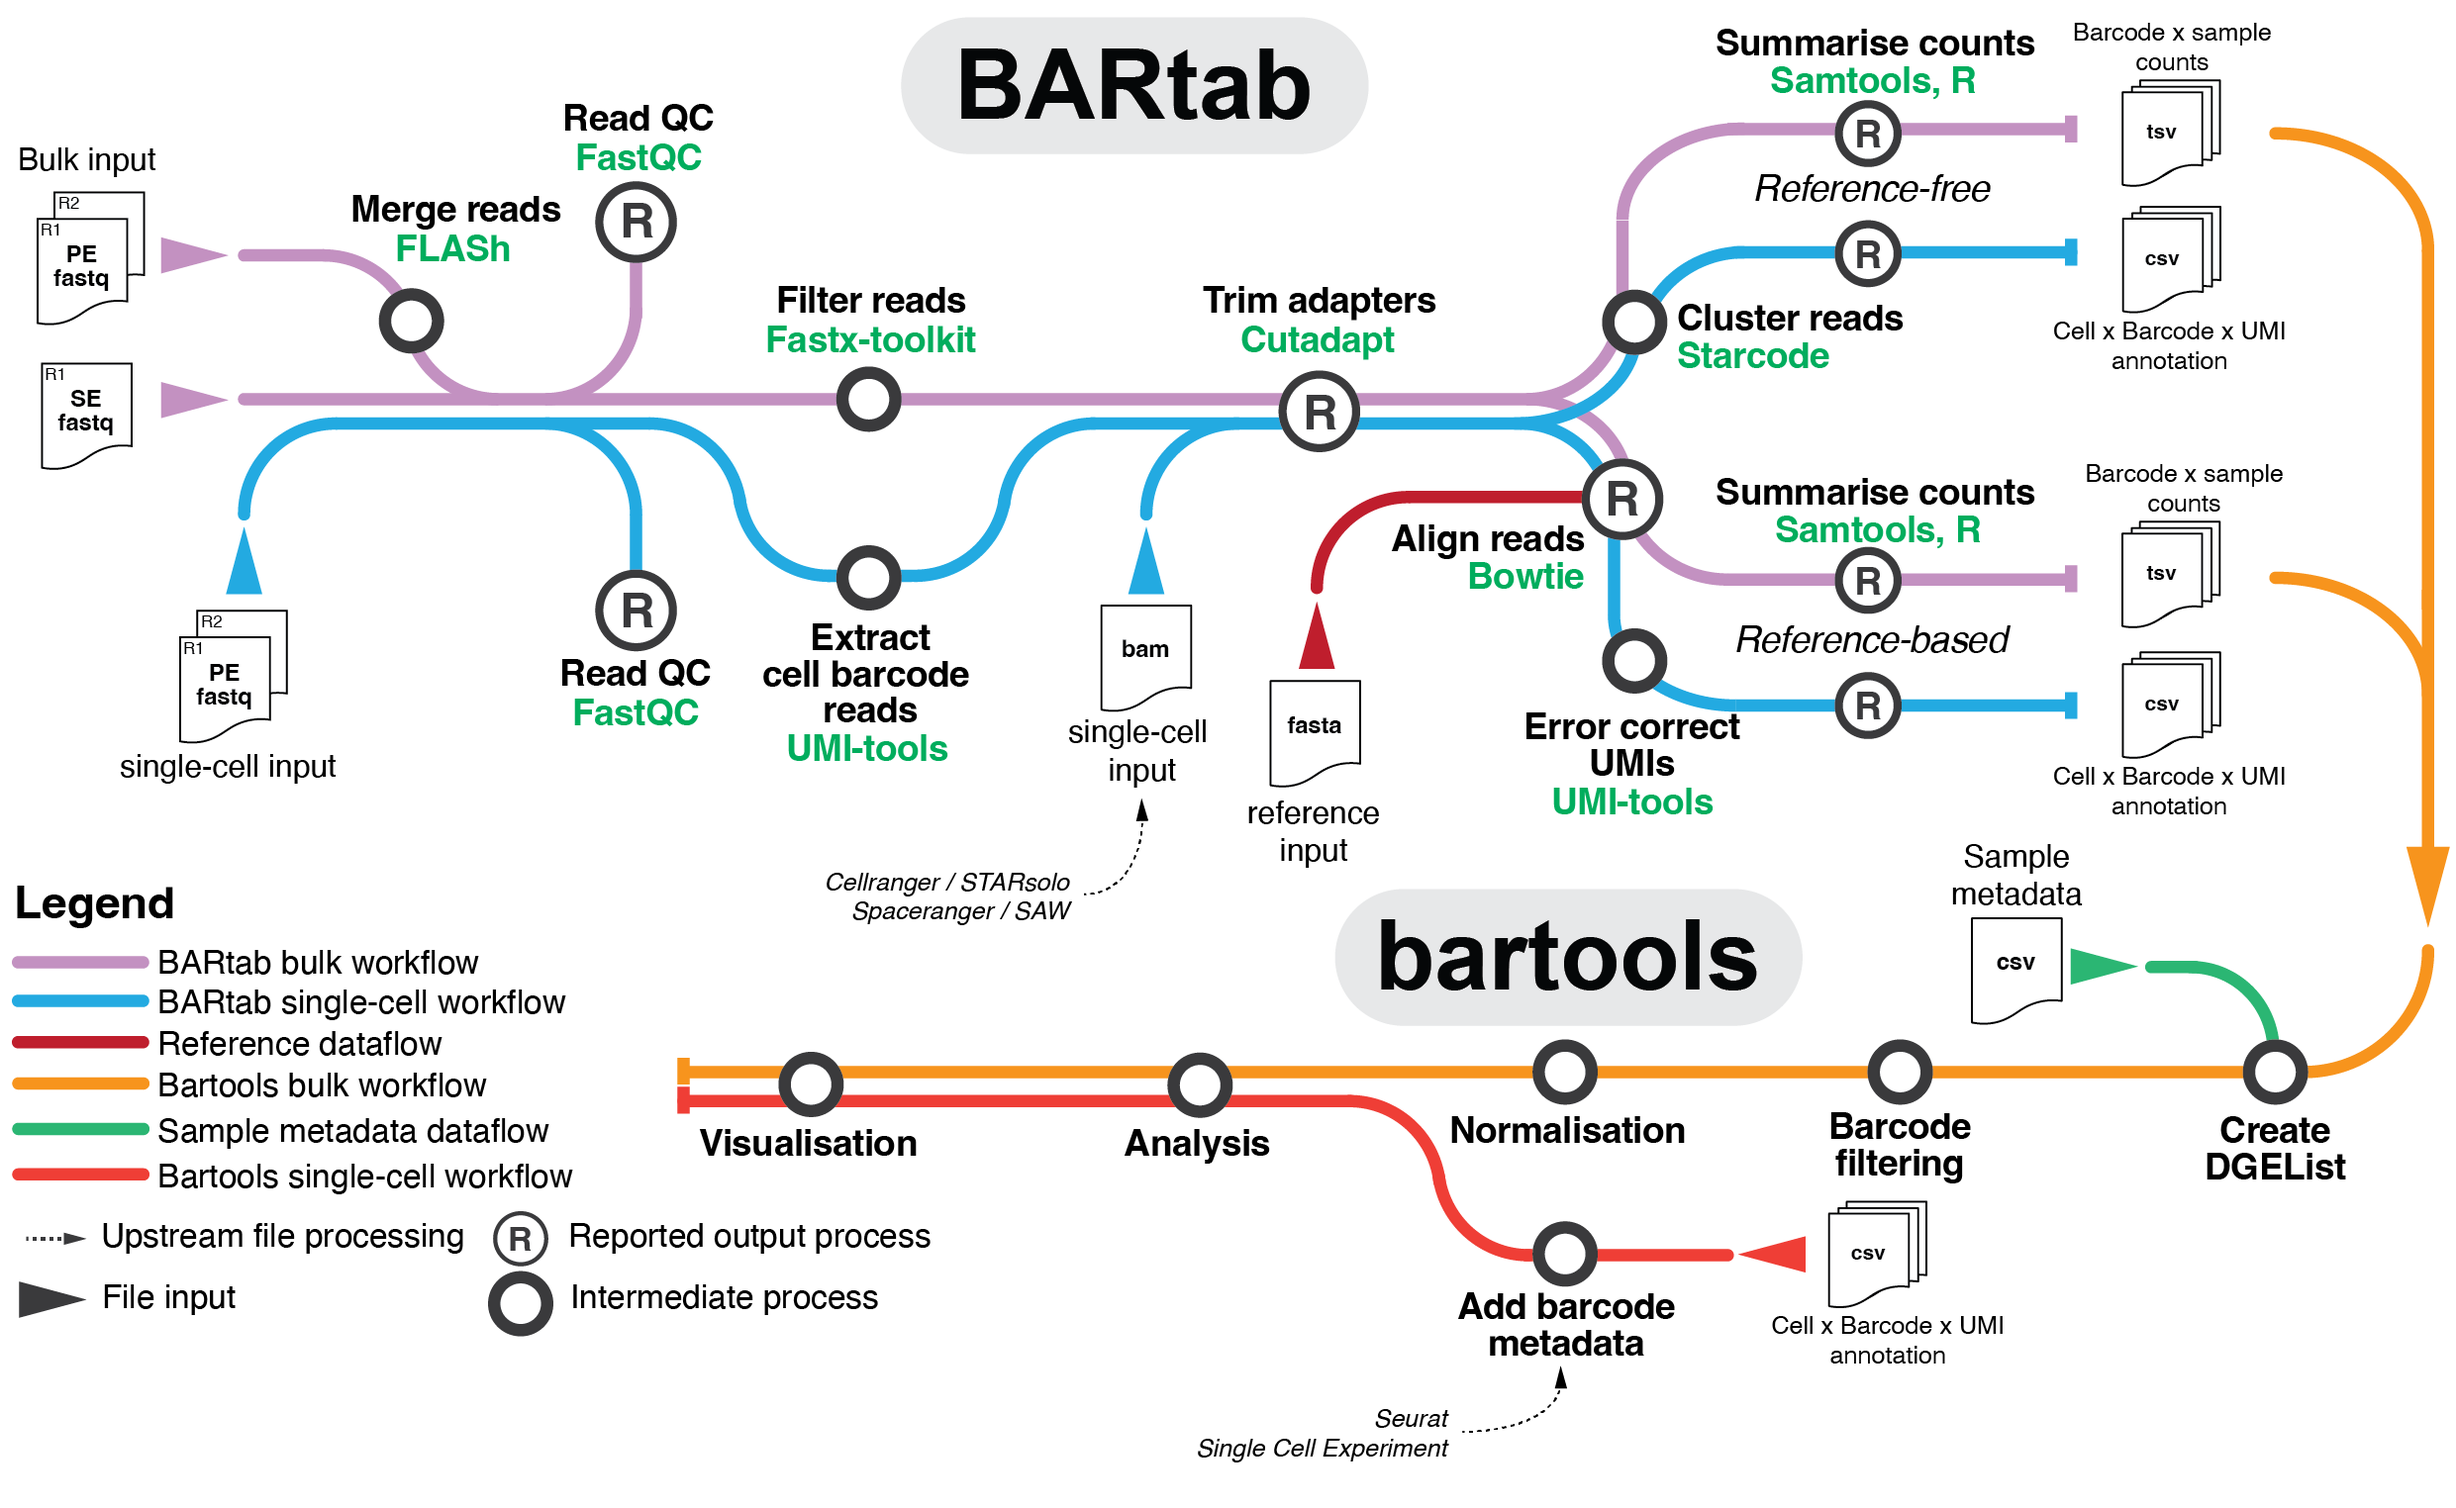
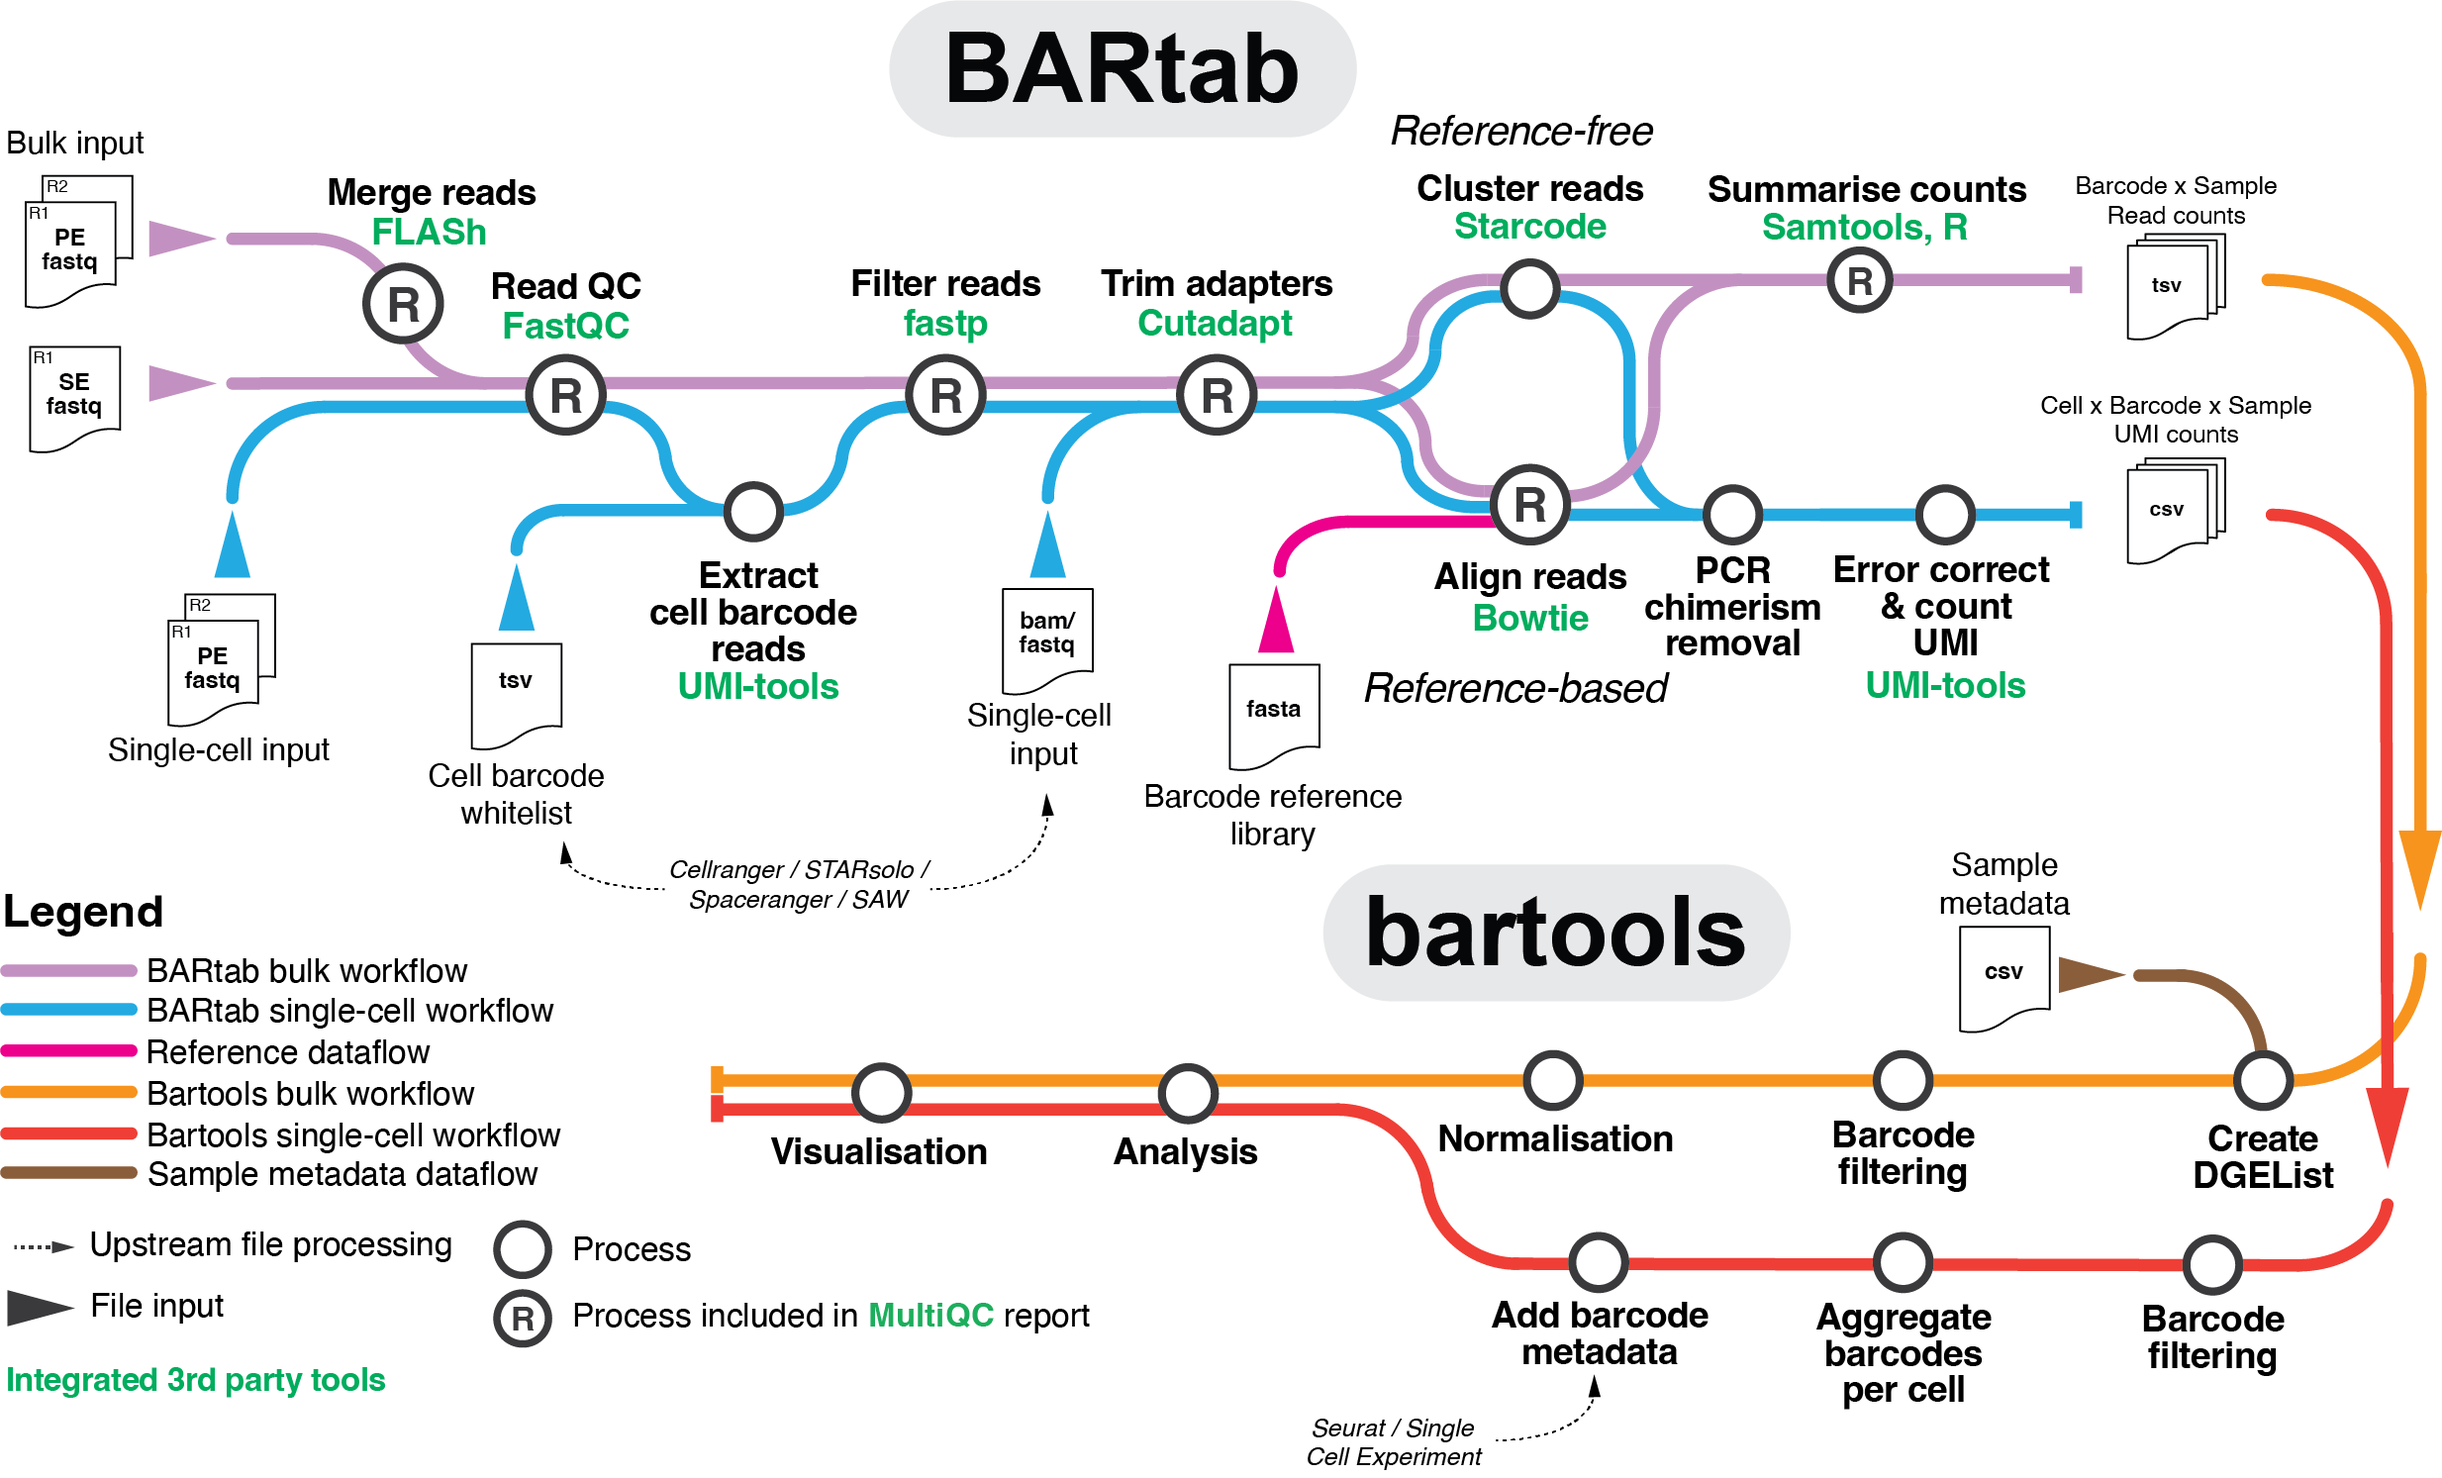
update flow diagram, link preprint and bartools

diff --git a/README.md b/README.md
@@ -15,6 +15,9 @@ A Nextflow pipeline to tabulate synthetic barcode counts from NGS data
 
 ![BARtab bartools workflow](assets/BARtab_workflow.png)
 
+BARtab integrates with the R package [bartools](https://github.com/DaneVass/bartools) for downstream QC, analysis and visualization of population-level and single-cell level cellular barcoding datasets.  
+Please see our [preprint](https://www.biorxiv.org/content/10.1101/2023.11.21.568179v1.full) for application examples. 
+
 ## Parameters
 
 ```
